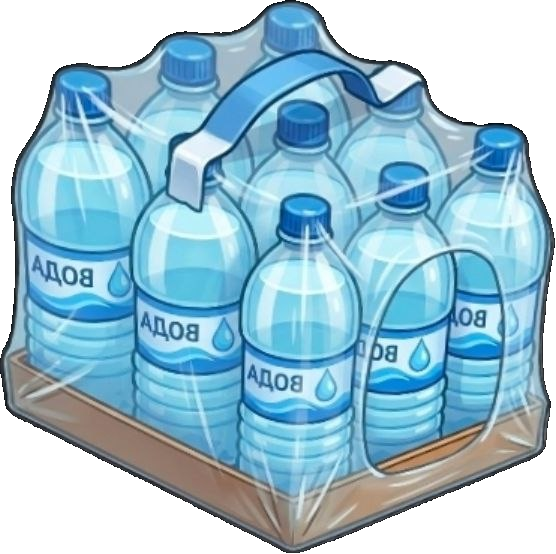
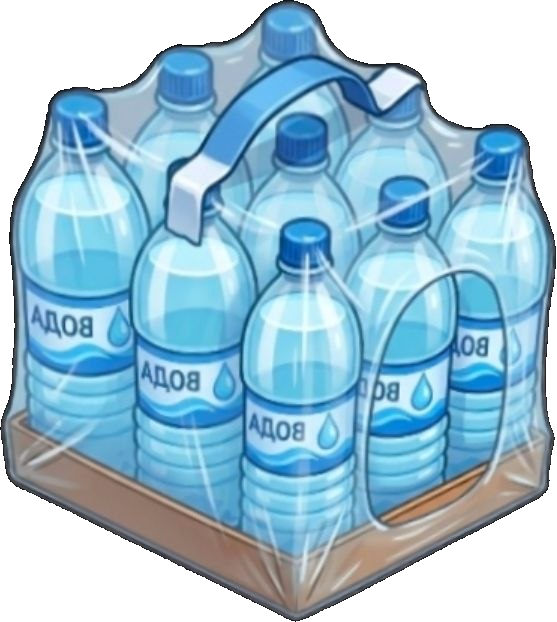
Replace pack sprite (v218).

diff --git a/02-sklad/index.html b/02-sklad/index.html
@@ -8,9 +8,9 @@
     <title>Склад</title>
     <meta name="theme-color" content="#14110d" />
     <meta name="apple-mobile-web-app-capable" content="yes" />
-    <link rel="manifest" href="manifest.json?v=217" />
+    <link rel="manifest" href="manifest.json?v=218" />
     <link rel="icon" href="../icon.svg" type="image/svg+xml" />
-    <link rel="stylesheet" href="style.css?v=217" />
+    <link rel="stylesheet" href="style.css?v=218" />
   </head>
   <body>
     <div class="scene" aria-hidden="true">
@@ -216,6 +216,6 @@
       </div>
     </div>
 
-    <script src="game.js?v=217"></script>
+    <script src="game.js?v=218"></script>
   </body>
 </html>

diff --git a/02-sklad/game.js b/02-sklad/game.js
@@ -1173,9 +1173,9 @@ function palWood(name) {
   );
 }
 
-const EMPTY_PAL = "art/pal-empty.png?v=217";
-const PACK_PIC = "art/pack.png?v=217";
-const YARD_PIC = "art/yard.jpg?v=217";
+const EMPTY_PAL = "art/pal-empty.png?v=218";
+const PACK_PIC = "art/pack.png?v=218";
+const YARD_PIC = "art/yard.jpg?v=218";
 const ART_URLS = [
   YARD_PIC,
   EMPTY_PAL,

diff --git a/02-sklad/style.css b/02-sklad/style.css
@@ -4342,7 +4342,7 @@ body.iso-yard .inside.yard-locked {
 
 body.iso-yard .inside-pic {
   background:
-    url("art/yard.jpg?v=217") center center / 100% 100% no-repeat,
+    url("art/yard.jpg?v=218") center center / 100% 100% no-repeat,
     #c4b48c;
 }
 
